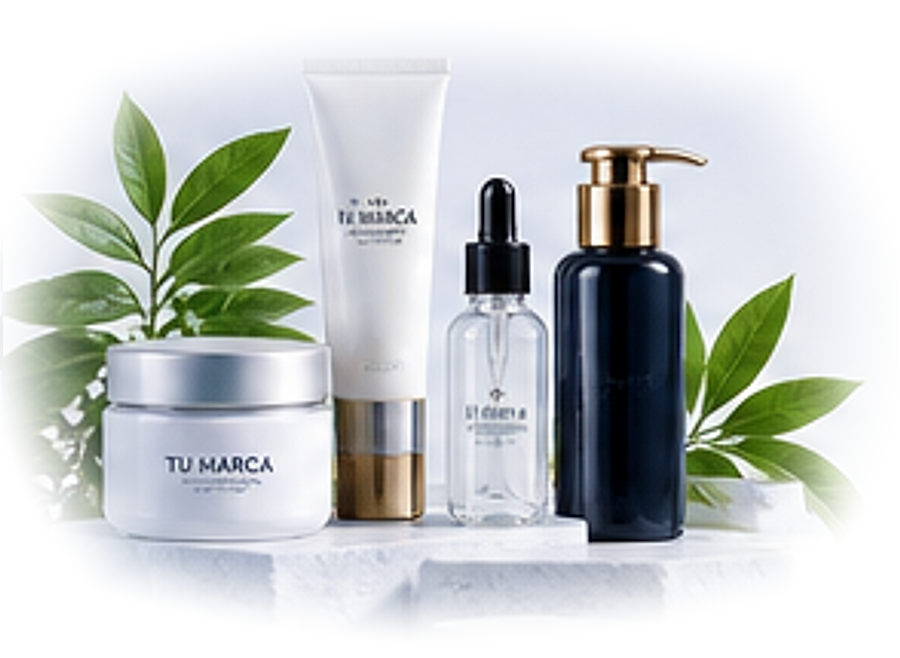
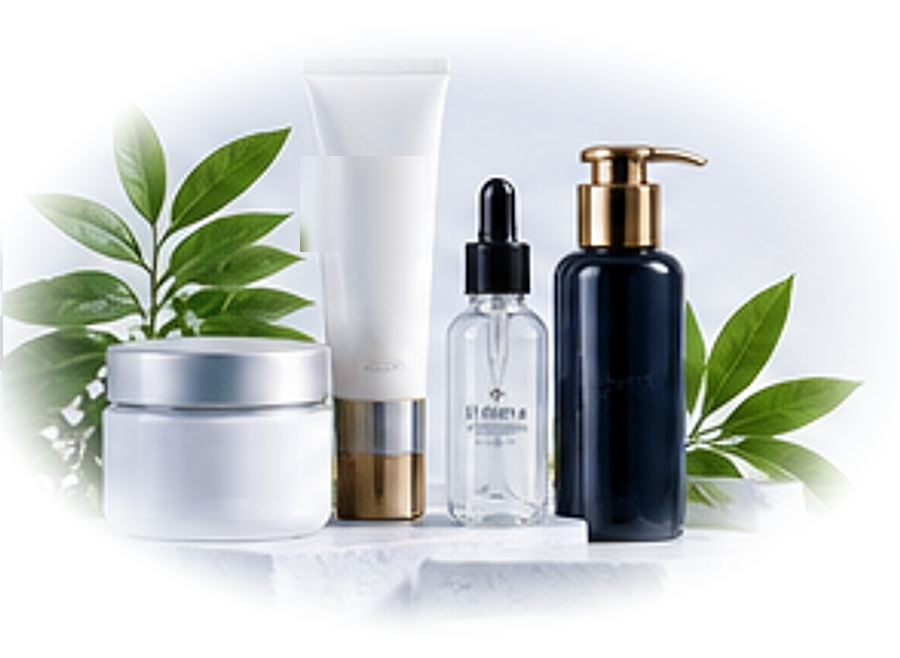
fix(home): quitar textos "TU MARCA" y burbuja de Creamy; mobile/tablet a medida
- Elimina el texto de marca genérico del pote y el tubo en la composición
  de productos del hero, y el logo falso en el vientre de Creamy, con la
  técnica de parche+pluma intersecada con la silueta real (sin bordes
  negros ni artefactos visibles).
- Quita la burbuja de diálogo "¡Hola! Soy Creamy AI" de la composición;
  la pose de saludo queda sola.
- Reescribe los breakpoints de tablet (1100px) y mobile (640px) del hero
  como composición propia (no el desktop reducido): visual debajo del
  texto, contenido en calc(100vw - 32px), stats en grid 2x2 en mobile y
  4 en fila en tablet. Verificado sin overflow horizontal en 1920/1440/
  768/375.
- Acento turquesa en "aliado estratégico" (segunda sección) y ajustes
  menores de copy ("Acompañamiento real").
- Agrega scripts/cdp-screenshot.mjs: captura real vía Chrome DevTools
  Protocol (Emulation.setDeviceMetricsOverride) para evitar el bug
  conocido de --window-size de Chrome headless en viewports angostos.

diff --git a/styles-polish.css b/styles-polish.css
@@ -2283,32 +2283,60 @@ body {
   .hh-stat-v6 span { font-size: 10px; }
 }
 
+.hv-accent { color: #169ab0; }
+
+/* ---------- Tablet (≤1100px): composición debajo del texto ---------- */
 @media (max-width: 1100px) {
-  .hh-inner-v6 { flex-direction: column; align-items: stretch; padding: 44px 0 76px; min-height: auto; }
+  .hh-inner-v6 { flex-direction: column; align-items: stretch; padding: 44px 0 64px; min-height: auto; }
   .hh-content-v6 { width: 100%; text-align: center; }
   .hh-content-v6 .hh-sub-v6 { max-width: 520px; margin-left: auto; margin-right: auto; }
   .hh-btns-v6, .hh-mini-list { justify-content: center; }
-  .hh-composition { width: 100%; height: clamp(300px, 68vw, 420px); margin-top: 28px; }
-  .hh-greet-card { left: auto; right: 2%; top: -6%; }
-  .hh-stats-float { flex-wrap: wrap; gap: 14px 0; }
-  .hh-stat-v6 { flex: 1 1 40%; justify-content: center; padding: 6px 10px; }
+  .hh-composition {
+    width: min(560px, calc(100vw - 32px));
+    max-width: 100%;
+    height: clamp(280px, 62vw, 380px);
+    margin: 32px auto 0;
+  }
+  .hh-stats-float {
+    display: grid;
+    grid-template-columns: repeat(4, 1fr);
+    width: calc(100% - 32px);
+    gap: 10px;
+  }
+  .hh-stat-v6 { flex-direction: column; align-items: center; text-align: center; gap: 6px; padding: 4px 2px; }
   .hh-stat-sep { display: none; }
 }
 
+/* ---------- Mobile (≤640px): composición contenida, stats 2×2 ---------- */
 @media (max-width: 640px) {
   .hn-inner { height: 64px !important; }
   .hn-logo { margin-right: 12px !important; }
-  .hh-inner-v6 { padding: 32px 0 68px; }
-  .hh-title-v6 { font-size: 30px; }
-  .hh-composition { height: 300px; }
-  .hh-comp-creamy { width: 34%; left: 0; }
-  .hh-comp-products { width: 78%; }
-  .hh-greet-card { display: none; }
-  .hh-stats-float {
-    transform: translateY(-30px);
-    padding: 16px 14px;
+  .hh-inner-v6 { padding: 30px 0 56px; }
+  .hh-title-v6 { font-size: clamp(26px, 8vw, 32px); }
+  .hh-sub-v6 { font-size: 14.5px; }
+
+  .hh-composition {
+    width: calc(100vw - 32px);
+    height: clamp(220px, 62vw, 280px);
+    margin: 26px auto 0;
   }
-  .hh-stat-v6 { flex: 1 1 100%; justify-content: flex-start; }
+  .hh-comp-creamy { width: 30%; left: 2%; }
+  .hh-comp-products { width: 76%; right: 0; }
+
+  .hh-stats-float {
+    grid-template-columns: repeat(2, 1fr);
+    transform: translateY(-24px);
+    padding: 16px 14px;
+    gap: 14px 8px;
+    width: calc(100% - 32px);
+  }
+  .hh-stat-v6 strong { font-size: 16px; }
+  .hh-stat-v6 span { font-size: 10.5px; }
+}
+
+@media (max-width: 400px) {
+  .hh-mini-list { gap: 4px 12px; }
+  .hh-mini-list span { font-size: 11.5px; }
 }
 
 @media (prefers-reduced-motion: reduce) {

diff --git a/index.html b/index.html
@@ -55,7 +55,7 @@
   <meta name="description" content="Laboratorio cosmetológico en Buenos Aires. Desarrollo y fabricación de cosméticos para tu marca." />
 
   <link rel="stylesheet" href="styles.css" />
-  <link rel="stylesheet" href="styles-polish.css?v=v8" />
+  <link rel="stylesheet" href="styles-polish.css?v=v9" />
   <link rel="stylesheet" href="mobile-menu.css?v=2" />
 </head>
 <body>
@@ -124,7 +124,7 @@ height="0" width="0" style="display:none;visibility:hidden"></iframe></noscript>
       <div class="hh-mini-list">
         <span>✓ Desarrollo integral</span>
         <span>✓ Fabricación propia</span>
-        <span>✓ Acompañamiento</span>
+        <span>✓ Acompañamiento real</span>
       </div>
     </div>
 
@@ -139,7 +139,6 @@ height="0" width="0" style="display:none;visibility:hidden"></iframe></noscript>
 
       <div class="hh-comp-creamy">
         <img src="assets/redesign/07_creamy/creamy_hero_clean.webp" alt="Creamy, el asistente de Laboratorio Genus" width="300" height="450" loading="eager">
-        <div class="hh-greet-card">¡Hola!<br>Soy Creamy AI</div>
       </div>
     </div>
 
@@ -173,7 +172,7 @@ height="0" width="0" style="display:none;visibility:hidden"></iframe></noscript>
   <div class="hv-wrap">
     <div class="hv-head">
       <span class="hh-tag hh-tag-light">Nuestra propuesta</span>
-      <h2>Más que un laboratorio,<br>somos tu aliado estratégico</h2>
+      <h2>Más que un laboratorio, somos tu <span class="hv-accent">aliado estratégico</span></h2>
     </div>
     <div class="hv-grid">
       <article class="hv-card">
@@ -194,7 +193,7 @@ height="0" width="0" style="display:none;visibility:hidden"></iframe></noscript>
         <div class="hv-icon">
           <svg width="26" height="26" viewBox="0 0 24 24" fill="none" stroke="white" stroke-width="2" stroke-linecap="round" stroke-linejoin="round"><circle cx="9" cy="7" r="3"/><path d="M3 21v-2a4 4 0 0 1 4-4h4a4 4 0 0 1 4 4v2"/></svg>
         </div>
-        <h3>Acompañamiento</h3>
+        <h3>Acompañamiento real</h3>
         <p>Acompañamos tu proyecto en cada etapa, con cercanía y compromiso, desde la idea inicial hasta el producto terminado.</p>
       </article>
       <article class="hv-card">
